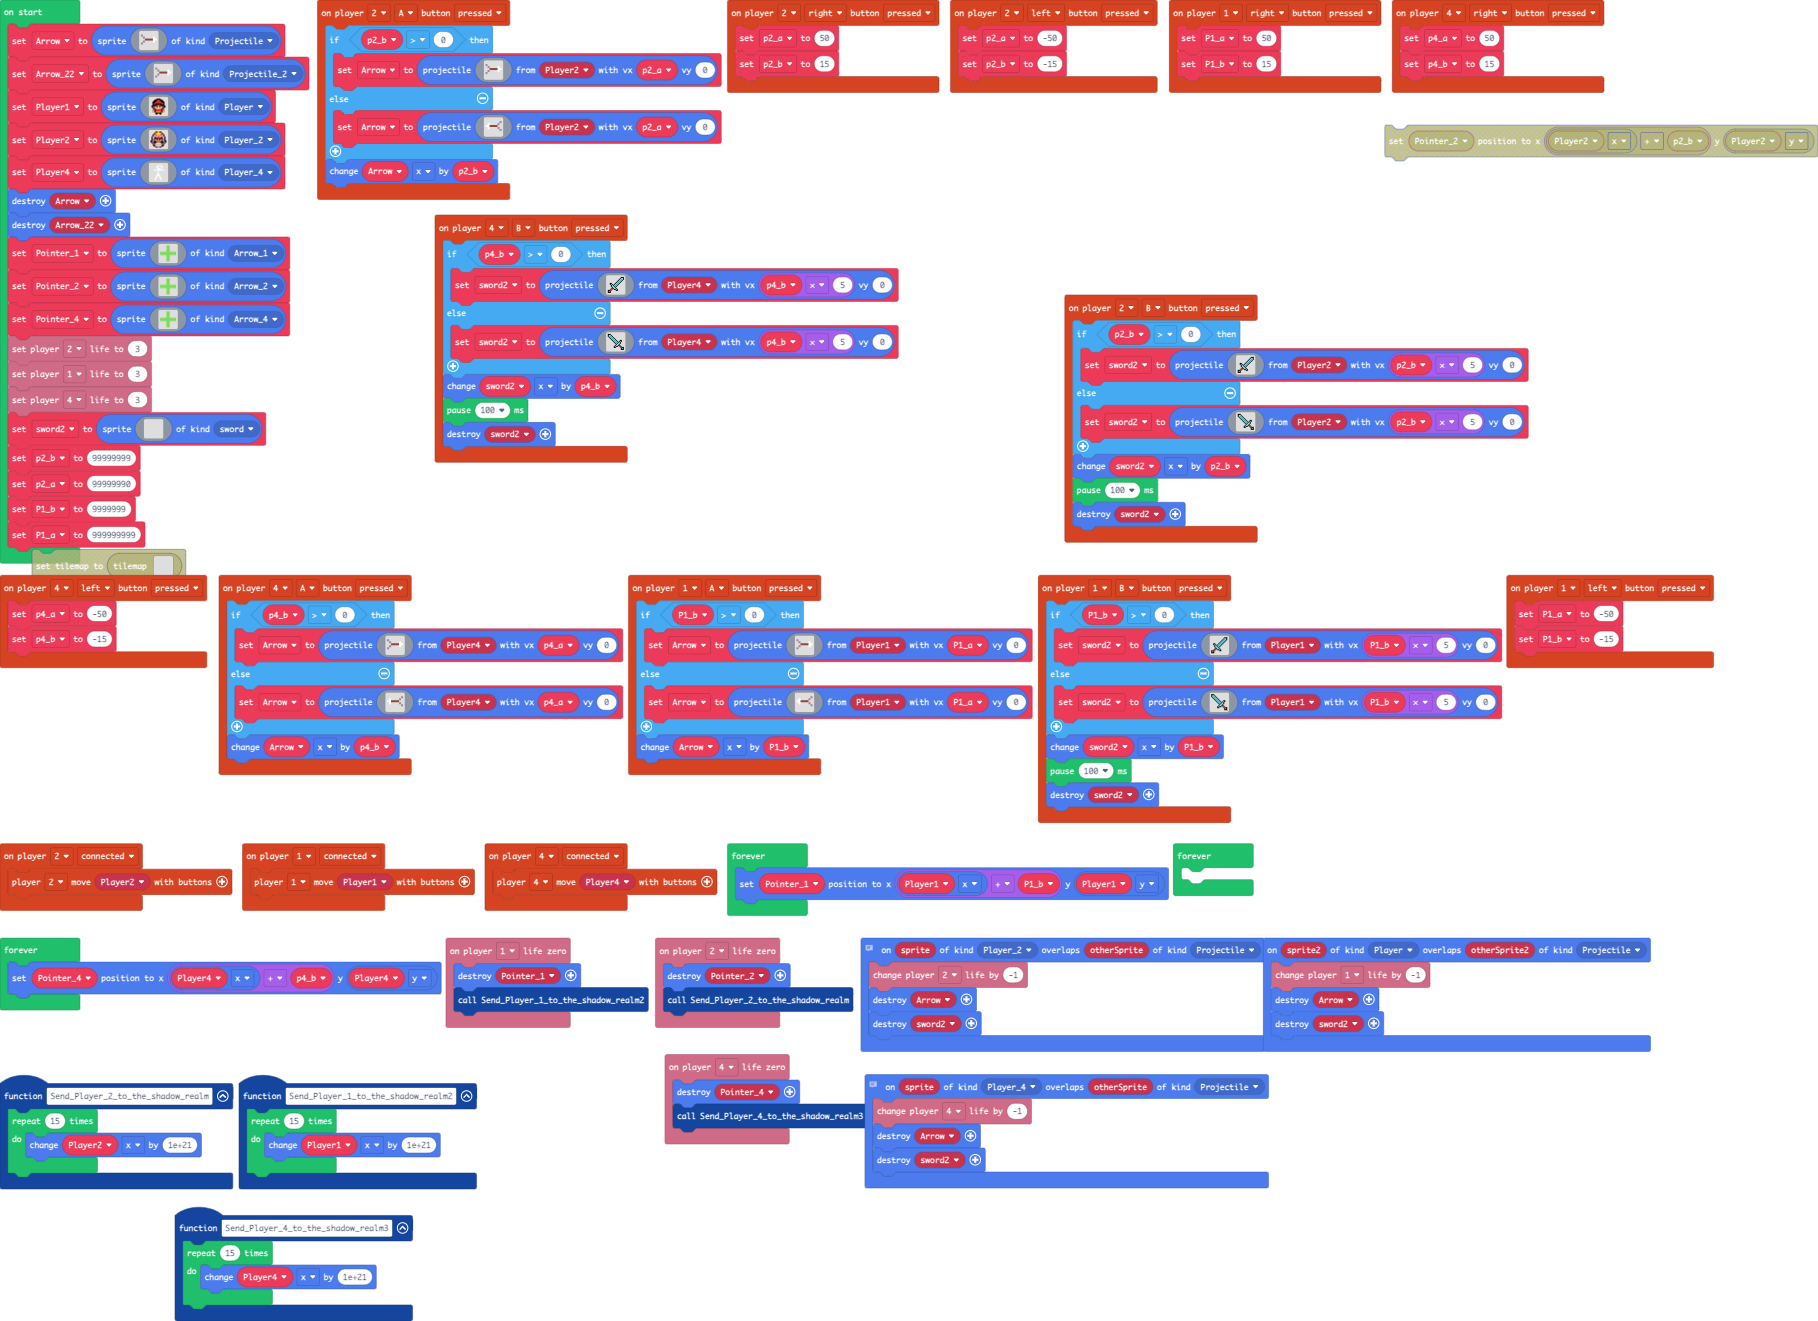
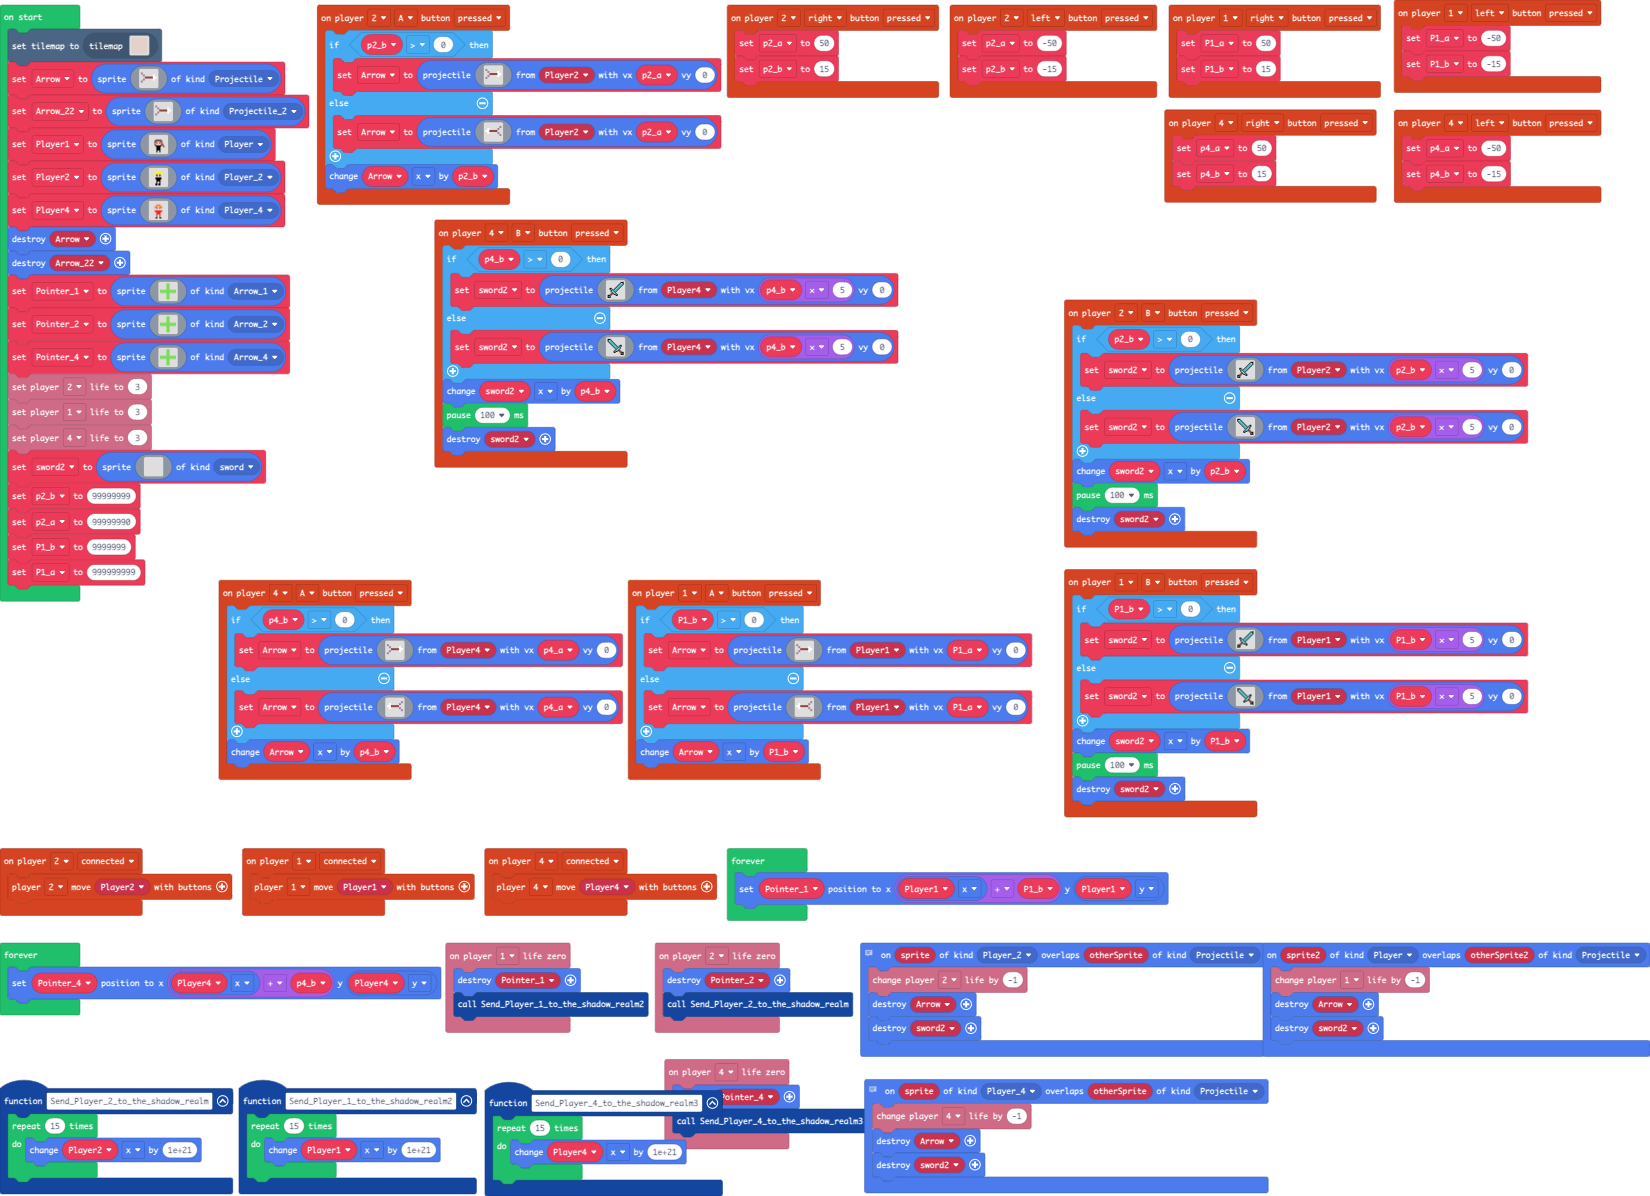
Update main.blocks, main.ts, tilemap.g.jres, tilemap.g.ts

diff --git a/tilemap.g.ts b/tilemap.g.ts
@@ -47,6 +47,25 @@ namespace myTiles {
 . . . . . . . . . . . . . . . . 
 . . . . . . . . . . . . . . . . 
 `, [myTiles.transparency16], TileScale.Sixteen);
+            case "level4":
+            case "level4":return tiles.createTilemap(hex`1000100000000000000000000000000000000000000000000000000000000000000000000000000000000000000000000000000000000000000000000000000000000000000000000000000000000000000000000000000000000000000000000000000000000000000000000000000000000000000000000000000000000000000000000000000000000000000000000000000000000000000000000000000000000000000000000000000000000000000000000000000000000000000000000000000000000000000000000000000000000000000000000000000000000000000000000000000000000000000000000000000000000000000000000000000000000000`, img`
+. . . . . . . . . . . . . . . . 
+. . . . . . . . . . . . . . . . 
+. . . . . . . . . . . . . . . . 
+. . . . . . . . . . . . . . . . 
+. . . . . . . . . . . . . . . . 
+. . . . . . . . . . . . . . . . 
+. . . . . . . . . . . . . . . . 
+. . . . . . . . . . . . . . . . 
+. . . . . . . . . . . . . . . . 
+. . . . . . . . . . . . . . . . 
+. . . . . . . . . . . . . . . . 
+. . . . . . . . . . . . . . . . 
+. . . . . . . . . . . . . . . . 
+. . . . . . . . . . . . . . . . 
+. . . . . . . . . . . . . . . . 
+. . . . . . . . . . . . . . . . 
+`, [myTiles.transparency16], TileScale.Sixteen);
             case "level2":
             case "level2":return tiles.createTilemap(hex`3200320001010101010101010101010101010101010101010101010101010101010101010101010101010101010101010101010101010101010101010101010101010101010101010101010101010101010101010101010101010101010101010101010101010101010101010101010101010101010101010101010101010101010101010101010101010101010101010101010101010101010101010101010101010101010101010101010101010101010101010101010101010101010101010101010101010101010101010101010101010101010101010101010101010101010101010101010101010101010101010101010101010101010101010101010101010101010101010101010101010101010101010101010101010101010101010101010101010101010101010101010101010101010101010101010101010101010101010101010101010101010101010101010101010101010101010101010101010101010101010101010101010101010101010101010101010101010101010101010101010101010101010101010101010101010101010101010101010101010101010101010101010101010101010101010101010101010101010101010101010101010101010101010101010101010101010101010101010101010101010101010101010101010101010101010101010101010101010101010101010101010101010101010101010101010101010101010101010101010101010101010101010101010101010101010101010101010101010101010101010101010101010101010101010101010101010101010101010101010101010101010101010101010101010101010101010101010101010101010101010101010101010101010101010101010101010101010101010101010101010101010101010101010101010101010101010101010101010101010101010101010101010101010101010101010101010101010101010101010101010101010101010101010101010101010101010101010101010101010101010101010101010101010101010101010101010101010101010101010101010101010101010101010101010101010101010101010101010101010101010101010101010101010101010101010101010101010101010101010101010101010101010101010101010101010101010101010101010101010101010101010101010101010101010101010101010101010101010101010101010101010101010101010101010101010101010101010101010101010101010101010101010101010101010101010101010101010101010101010101010101010101010101010101010101010101010101010101010101010101010101010101010101010101010101010101010101010101010101010101010101010101010101010101010101010101010101010101010101010101010101010101010101010101010101010101010101010101010101010101010101010101010101010101010101010101010101010101010101010101010101010101010101010101010101010101010101010101010101010101010101010101010101010101010101010101010101010101010101010101010101010101010101010101010101010101010101010101010101010101010101010101010101010101010101010101010101010101010101010101010101010101010101010101010101010101010101010101010101010101010101010101010101010101010101010101010101010101010101010101010101010101010101010101010101010101010101010101010101010101010101010101010101010101010101010101010101010101010101010101010101010101010101010101010101010101010101010101010101010101010101010101010101010101010101010101010101010101010101010101010101010101010101010101010101010101010101010101010101010101010101010101010101010101010101010101010101010101010101010101010101010101010101010101010101010101010101010101010101010101010101010101010101010101010101010101010101010101010101010101010101010101010101010101010101010101010101010101010101010101010101010101010101010101010101010101010101010101010101010101010101010101010101010101010101010101010101010101010101010101010101010101010101010101010101010101010101010101010101010101010101010101010101010101010101010101010101010101010101010101010101010101010101010101010101010101010101010101010101010101010101010101010101010101010101010101010101010101010101010101010101010101010101010101010101010101010101010101010101010101010101010101010101010101010101010101010101010101010101010101010101010101010101010101010101010101010101010101010101010101010101010101010101010101010101010101010101010101010101010101010101010101010101010101010101010101010101010101010101010101010101010101010101010101010101010101010101010101010101010101010101010101010101010101010101010101010101010101010101010101010101010101010101010101010101010101010101010101010101010101010101010101010101010101010101010101010101010101010101010101010101010101010101010101010101010101010101010101010101010101010101010101010101010101010101010101010101010101010101010101010101010101010101010101010101010101010101010101010101010101010101010101010101010101010101010101010101010101010101010101010101010101010101010101010101010101010101010101010101010101010101010101010101010101010101010101010101010101010101010101010101010101010101010101010101010101010101010101010101010101010101010101010101010101010101010101010101010101010101010101010101010101010101010101010101010101010101010101010101010101010101010101010101010101010101010101010101010101010101010101010101010101010101010101010101010101010101010101010101010101010101010101010101010101010101010101010101010101010101010101010101010101010101010101010101010101010101010101010101010101010101010101010101010101010101010101010101010101010101010101010101010101010101010101010101010101010101010101010101020202020202020202020202020202020202020101020202020101010101010101010101010101010101010101010101`, img`
 ..................................................

diff --git a/main.ts b/main.ts
@@ -309,6 +309,7 @@ let Player4: Sprite = null
 let Player2: Sprite = null
 let Player1: Sprite = null
 let Arrow: Sprite = null
+tiles.setCurrentTilemap(tilemap`level2`)
 Arrow = sprites.create(img`
     . . . . . . . . 
     b . . . . . . . 
@@ -330,58 +331,58 @@ let Arrow_22 = sprites.create(img`
     . . . . . . . . 
     `, SpriteKind.Projectile_2)
 Player1 = sprites.create(img`
+    . . . . . . . . . . . . . . . . 
+    . . . . . . . . . . . . . . . . 
+    . . . . . . . . . . . . . . . . 
+    . . . . . e e e e e e . . . . . 
+    . . . . e e e e e e e e . . . . 
+    . . . . e e d d d d e e . . . . 
+    . . . . e d f d d f d e . . . . 
+    . . . . e d d d d d d e e . . . 
+    . . . . e e d d d d e e e . . . 
+    . . . . . f f f f f f . e e . . 
+    . . . . . d f f f f d . . e . . 
+    . . . . . d f f f f d . . . . . 
+    . . . . . d f f f f d . . . . . 
     . . . . . . f f f f . . . . . . 
-    . . . . f f f 2 2 f f f . . . . 
-    . . . f f f 2 2 2 2 f f f . . . 
-    . . f f f e e e e e e f f f . . 
-    . . f f e 2 2 2 2 2 2 e e f . . 
-    . . f e 2 f f f f f f 2 e f . . 
-    . . f f f f e e e e f f f f . . 
-    . f f e f b f 4 4 f b f e f f . 
-    . f e e 4 1 f d d f 1 4 e e f . 
-    . . f e e d d d d d d e e f . . 
-    . . . f e e 4 4 4 4 e e f . . . 
-    . . e 4 f 2 2 2 2 2 2 f 4 e . . 
-    . . 4 d f 2 2 2 2 2 2 f d 4 . . 
-    . . 4 4 f 4 4 5 5 4 4 f 4 4 . . 
-    . . . . . f f f f f f . . . . . 
-    . . . . . f f . . f f . . . . . 
+    . . . . . . f . . f . . . . . . 
+    . . . . . . f . . f . . . . . . 
     `, SpriteKind.Player)
 Player2 = sprites.create(img`
-    . . . . . f f 4 4 f f . . . . . 
-    . . . . f 5 4 5 5 4 5 f . . . . 
-    . . . f e 4 5 5 5 5 4 e f . . . 
-    . . f b 3 e 4 4 4 4 e 3 b f . . 
-    . . f 3 3 3 3 3 3 3 3 3 3 f . . 
-    . f 3 3 e b 3 e e 3 b e 3 3 f . 
-    . f 3 3 f f e e e e f f 3 3 f . 
-    . f b b f b f e e f b f b b f . 
-    . f b b e 1 f 4 4 f 1 e b b f . 
-    f f b b f 4 4 4 4 4 4 f b b f f 
-    f b b f f f e e e e f f f b b f 
-    . f e e f b d d d d b f e e f . 
-    . . e 4 c d d d d d d c 4 e . . 
-    . . e f b d b d b d b b f e . . 
-    . . . f f 1 d 1 d 1 d f f . . . 
-    . . . . . f f b b f f . . . . . 
+    . . . . . . . . . . . . . . . . 
+    . . . . . . . . . . . . . . . . 
+    . . . . . 5 5 5 5 5 5 . . . . . 
+    . . . . 5 5 5 5 5 5 5 5 . . . . 
+    . . . . 5 5 d d d d 5 5 . . . . 
+    . . . . 5 d f d d f d 5 . . . . 
+    . . . . . d f d d f d . . . . . 
+    . . . . . . d d d d . . . . . . 
+    . . . . . f f f f f f . . . . . 
+    . . . . . f f f f f f . . . . . 
+    . . . . . d f f f f d . . . . . 
+    . . . . . d f f f f d . . . . . 
+    . . . . . . f . . f . . . . . . 
+    . . . . . . f . . f . . . . . . 
+    . . . . . f f . f f . . . . . . 
+    . . . . . f f . f f . . . . . . 
     `, SpriteKind.Player_2)
 Player4 = sprites.create(img`
-    . . . . . . . . . 1 . . . . . . 
-    . . . . . . 1 1 1 . 1 1 . . . . 
-    . . . . . . 1 . . . . 1 . . . . 
-    . . . . . . 1 1 1 . 1 1 . . . . 
-    . . . . . . . 1 1 1 . . . . . . 
-    . . . 1 1 1 1 1 1 1 1 1 1 1 . . 
-    . . . . . . . . 1 . . . . . . . 
-    . . . . . . . 1 . . . . . . . . 
-    . . . . . . . 1 . . . . . . . . 
-    . . . . . . . 1 1 . . . . . . . 
-    . . . . . . 1 1 1 . . . . . . . 
-    . . . . . . 1 . 1 1 . . . . . . 
-    . . . . . 1 1 . . 1 . . . . . . 
-    . . . . . 1 . . . 1 1 . . . . . 
-    . . . . 1 1 . . . . 1 . . . . . 
-    . . . . 1 . . . . . 1 . . . . . 
+    . . . . . . . . . . . . . . . . 
+    . . . . . . . . . . . . . . . . 
+    . . . . . . 4 4 4 4 . . . . . . 
+    . . . . . 4 4 4 4 4 4 . . . . . 
+    . . . . 4 4 d d d d 4 4 . . . . 
+    . . . . 4 d f d d f d 4 . . . . 
+    . . . . . d d d d d d . . . . . 
+    . . . . . . d d d d . . . . . . 
+    . . . . 2 2 2 2 2 2 2 2 . . . . 
+    . . . . d 2 2 2 2 2 2 d . . . . 
+    . . . . d d 2 2 2 2 d d . . . . 
+    . . . . d d 2 2 2 2 d d . . . . 
+    . . . . d . e . . e . d . . . . 
+    . . . . . . e . . e . . . . . . 
+    . . . . . . e . . e . . . . . . 
+    . . . . . f f . . f f . . . . . 
     `, SpriteKind.Player_4)
 sprites.destroy(Arrow)
 sprites.destroy(Arrow_22)
@@ -433,9 +434,6 @@ P1_b = 9999999
 P1_a = 999999999
 forever(function () {
     Pointer_1.setPosition(Player1.x + P1_b, Player1.y)
-})
-forever(function () {
-	
 })
 forever(function () {
     Pointer_4.setPosition(Player4.x + p4_b, Player4.y)
